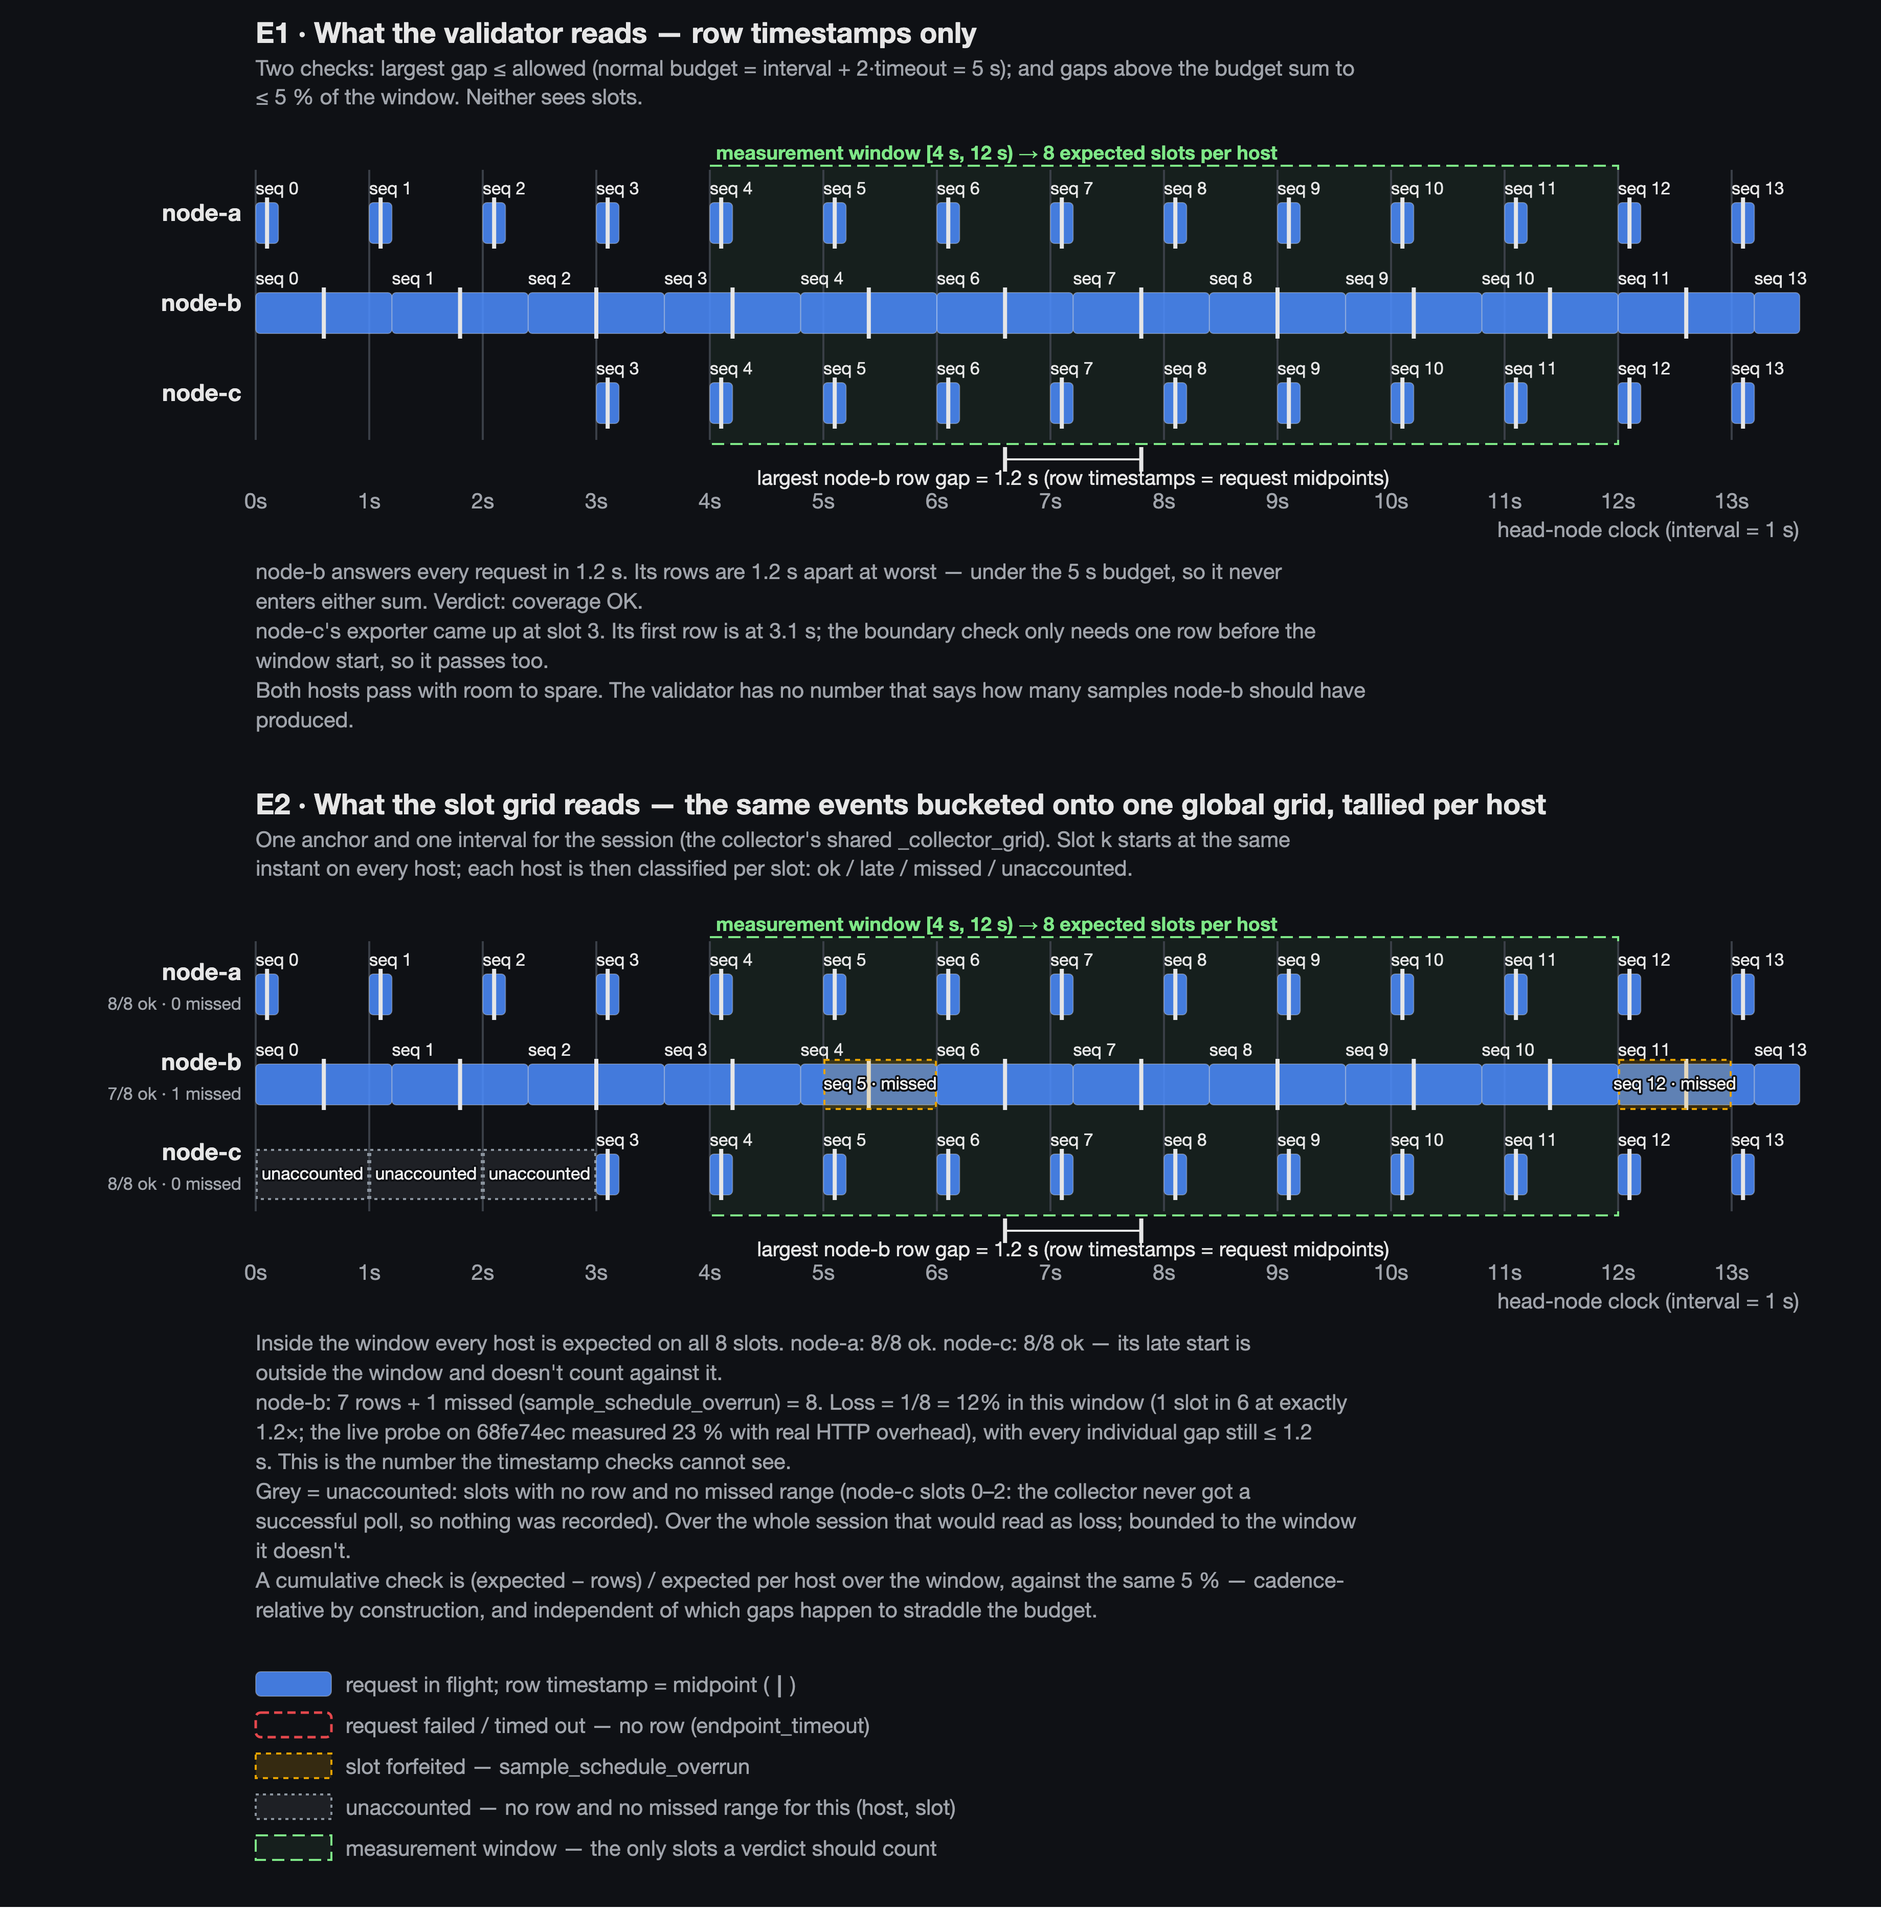
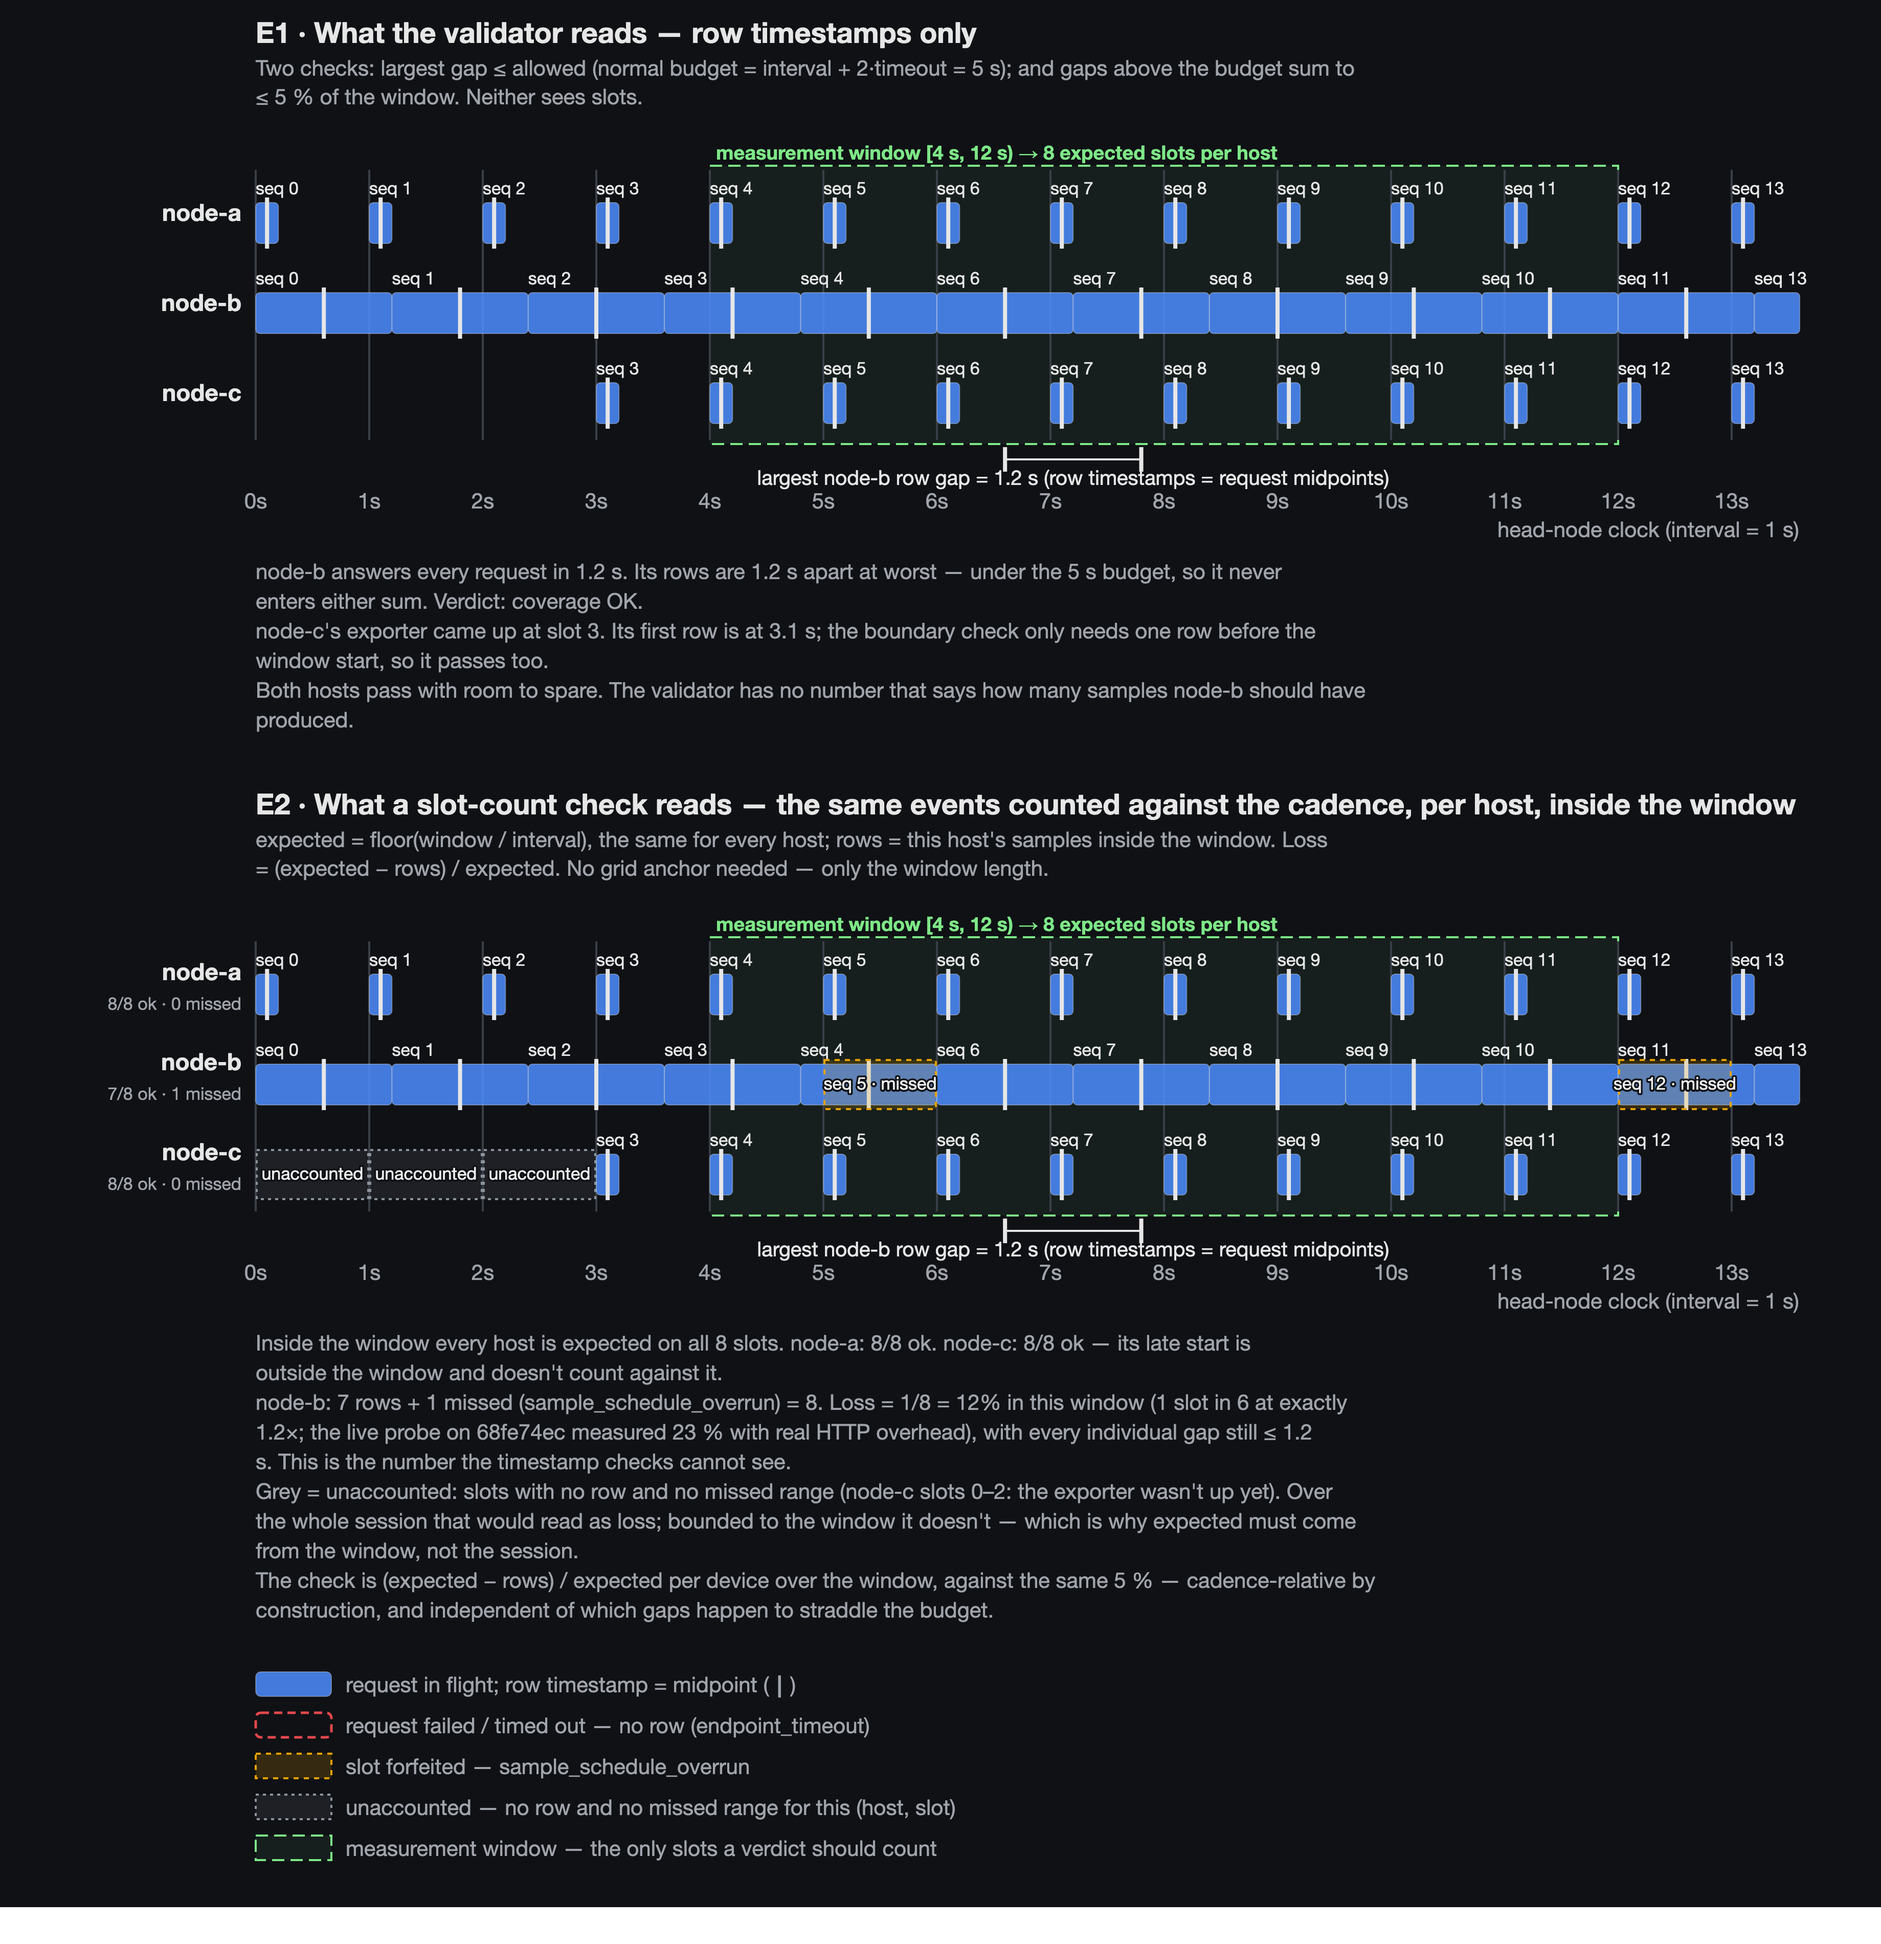
review assets: pr-480 (slot-loss-timing.svg, slot-loss-timing.png, timing_diagram.py)

diff --git a/pr-480/timing_diagram.py b/pr-480/timing_diagram.py
@@ -450,14 +450,14 @@ def build_loss():
         )
         body.append(p)
         p, y = panel(
-            "E2 · What the slot grid reads — the same events bucketed onto one global grid, tallied per host",
-            "One anchor and one interval for the session (the collector's shared _collector_grid). Slot k starts at the same instant on every host; each host is then classified per slot: ok / late / missed / unaccounted.",
+            "E2 · What a slot-count check reads — the same events counted against the cadence, per host, inside the window",
+            "expected = floor(window / interval), the same for every host; rows = this host's samples inside the window. Loss = (expected − rows) / expected. No grid anchor needed — only the window length.",
             ev, missed, y,
             [
                 f"Inside the window every host is expected on all {expected} slots. node-a: {tally['node-a'][0]}/{expected} ok. node-c: {tally['node-c'][0]}/{expected} ok — its late start is outside the window and doesn't count against it.",
                 f"node-b: {tally['node-b'][0]} rows + {tally['node-b'][1]} missed (sample_schedule_overrun) = {expected}. Loss = {tally['node-b'][1]}/{expected} = {tally['node-b'][1] / expected:.0%} in this window (1 slot in 6 at exactly 1.2×; the live probe on 68fe74ec measured 23 % with real HTTP overhead), with every individual gap still ≤ {b_gap:.1f} s. This is the number the timestamp checks cannot see.",
-                f"Grey = unaccounted: slots with no row and no missed range (node-c slots 0–{c_unacc_all - 1}: the collector never got a successful poll, so nothing was recorded). Over the whole session that would read as loss; bounded to the window it doesn't.",
-                "A cumulative check is (expected − rows) / expected per host over the window, against the same 5 % — cadence-relative by construction, and independent of which gaps happen to straddle the budget.",
+                f"Grey = unaccounted: slots with no row and no missed range (node-c slots 0–{c_unacc_all - 1}: the exporter wasn't up yet). Over the whole session that would read as loss; bounded to the window it doesn't — which is why expected must come from the window, not the session.",
+                "The check is (expected − rows) / expected per device over the window, against the same 5 % — cadence-relative by construction, and independent of which gaps happen to straddle the budget.",
             ],
             hosts=hosts,
             window=(W0, W1),
